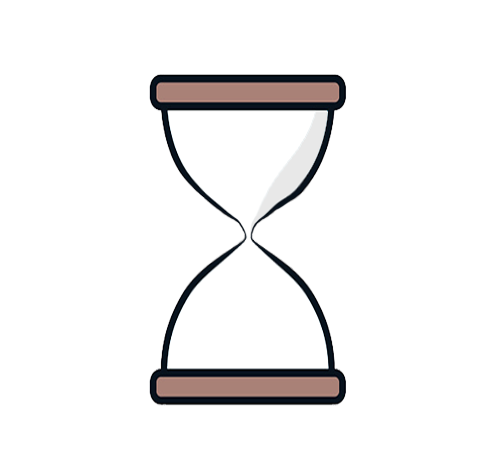
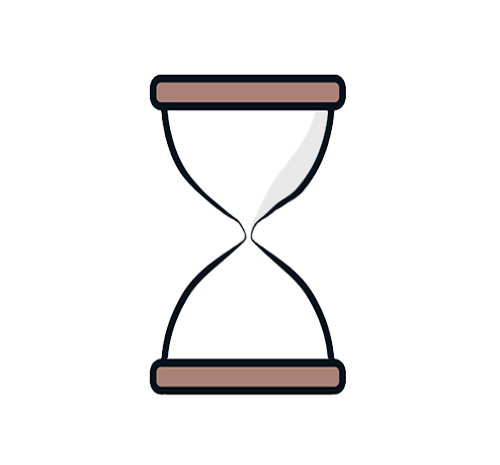
Update

Changed region(s): [[0.3, 0.7527, 0.69, 0.8731]]

diff --git a/style.css b/style.css
@@ -28,13 +28,17 @@ h1 { display: none; }
 .main-content {
     display: flex;
     gap: 40px;
-    align-items: flex-start;
+    align-items: center;
     justify-content: space-between;
 }
 
-.traffic-light-section, .hourglass-section {
+.traffic-light-section, .hourglass-section, .silence-section {
     flex: 1;
     text-align: center;
+    display: flex;
+    flex-direction: column;
+    justify-content: center;
+    align-items: center;
 }
 
 h2 { display: none; }
@@ -90,21 +94,29 @@ h2 { display: none; }
     margin-top: 10px;
 }
 
+/* Stilte styling */
+.silence-image {
+    width: 300px;
+    height: 300px;
+    object-fit: contain;
+}
+
 /* Zandloper styling */
 .container-glass {
     position: relative;
     height: 400px;
-    width: 400px;
+    width: 200px;
     margin: 0 auto;
+    overflow: hidden;
 }
 
 .glass {
     height: 100%;
     background-image: url('zandloper.png');
     background-repeat: no-repeat;
-    background-size: contain;
+    background-size: cover;
     background-position: center;
-    transform: translateY(-5.5px);
+    transform: translateY(-4.5px);
 }
 
 .get-hourglass {
@@ -284,7 +296,7 @@ button:disabled {
     
     .container-glass {
         height: 300px;
-        width: 300px;
+        width: 150px;
     }
     
     .hourglass {
@@ -294,5 +306,10 @@ button:disabled {
     
     .timer-display {
         font-size: 2em;
+    }
+    
+    .silence-image {
+        width: 225px;
+        height: 225px;
     }
 }

diff --git a/index.html b/index.html
@@ -20,12 +20,17 @@
                 <div class="status-text" id="status-text">Ik steek mijn vinger op als ik de juf nodig heb.</div>
             </div>
 
+            <!-- Stilte sectie -->
+            <div class="silence-section">
+                <img src="stilte.svg" alt="Stilte" class="silence-image">
+            </div>
+
             <!-- Zandloper sectie -->
             <div class="hourglass-section">
                 <div class="container-glass">
                     <div class="glass"></div>
                     <div class="get-hourglass">
-                        <svg width="200px" height="360px" viewBox="0 0 14 18">
+                        <svg width="200px" height="4000px" viewBox="0 0 14 18">
                             <defs>
                             </defs>
                             <g id="sandclock" stroke="none" stroke-width="1" fill="none" fill-rule="evenodd" sketch:type="MSPage">
@@ -67,7 +72,7 @@
         <div class="global-controls">
             <div class="controls">
                 <div class="time-controls">
-                    <input type="number" id="minutes-input" min="1" max="59" value="1" />
+                    <input type="number" id="minutes-input" min="1" value="1" />
                     <span>min</span>
                     <button id="global-start">Start</button>
                     <button id="global-stop" disabled>Stop</button>

diff --git a/script.js b/script.js
@@ -35,8 +35,8 @@ class TrafficLightTimer {
         if (this.isRunning) return;
         
         const minutes = parseInt(this.timeInput.value);
-        if (minutes < 1 || minutes > 59) {
-            alert('Voer een tijd in tussen 1 en 59 minuten!');
+        if (minutes < 1) {
+            alert('Voer een tijd in van minimaal 1 minuut!');
             return;
         }
         
@@ -50,7 +50,7 @@ class TrafficLightTimer {
         
         // Start met rood licht
         this.setTrafficLight('red');
-        this.statusText.textContent = 'Ik werk in stilte, ik stoor de juf niet.';
+        this.statusText.textContent = 'Ik stoor de juf niet!';
         
         // Start zandloper animatie
         this.startHourglassAnimation();
